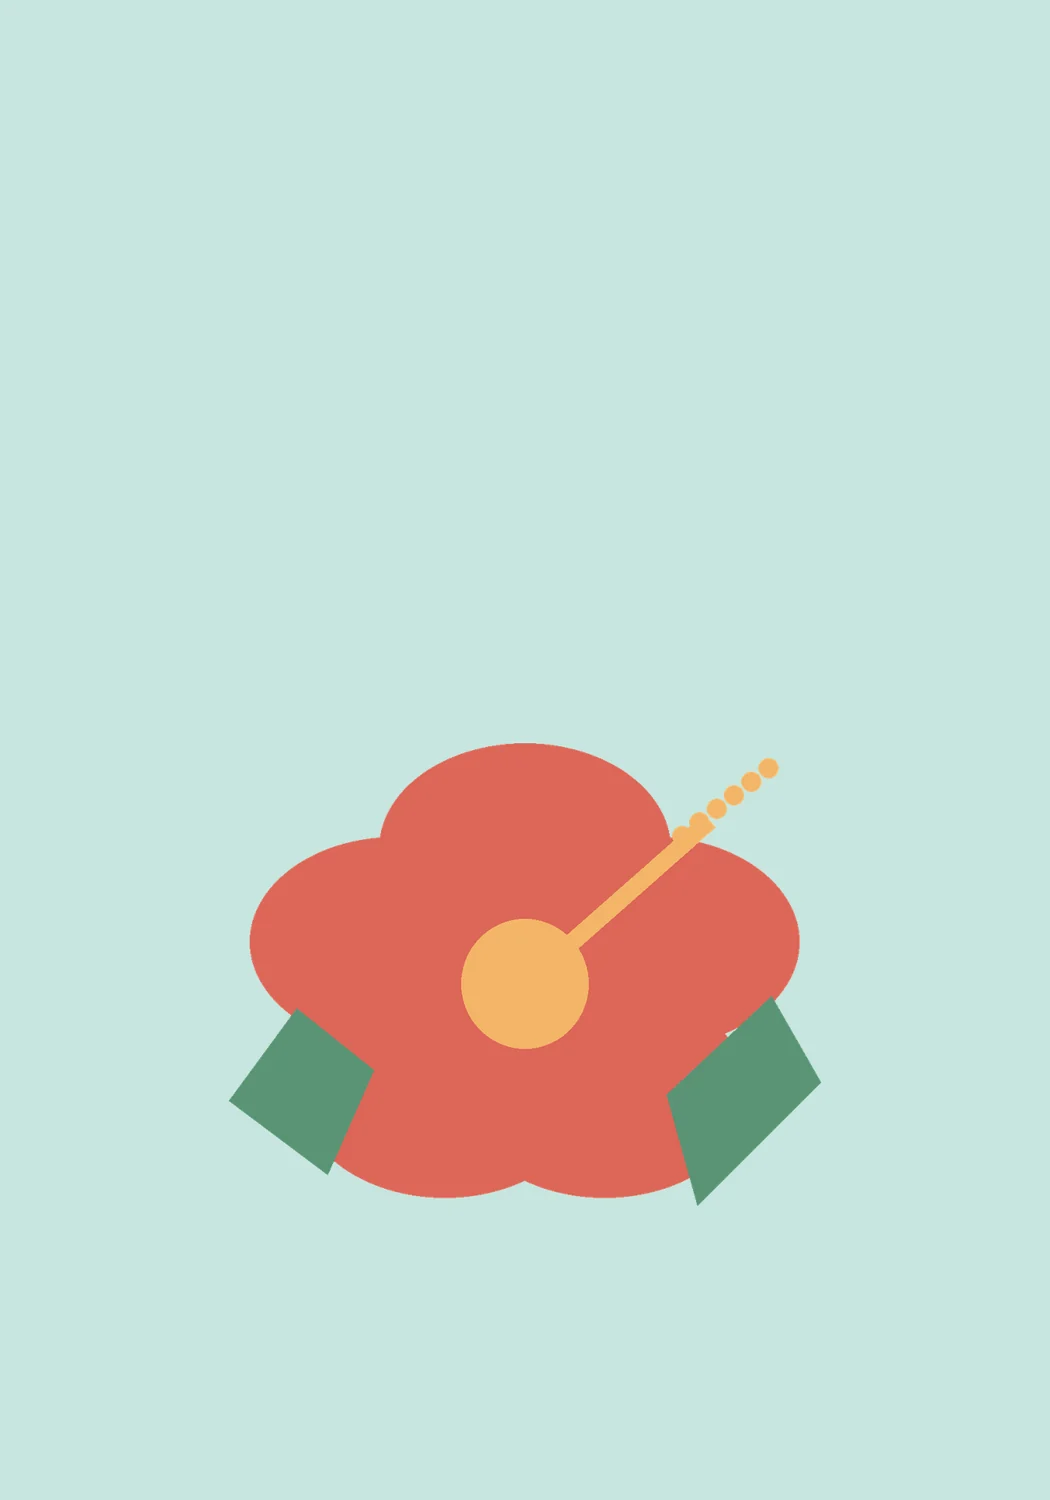
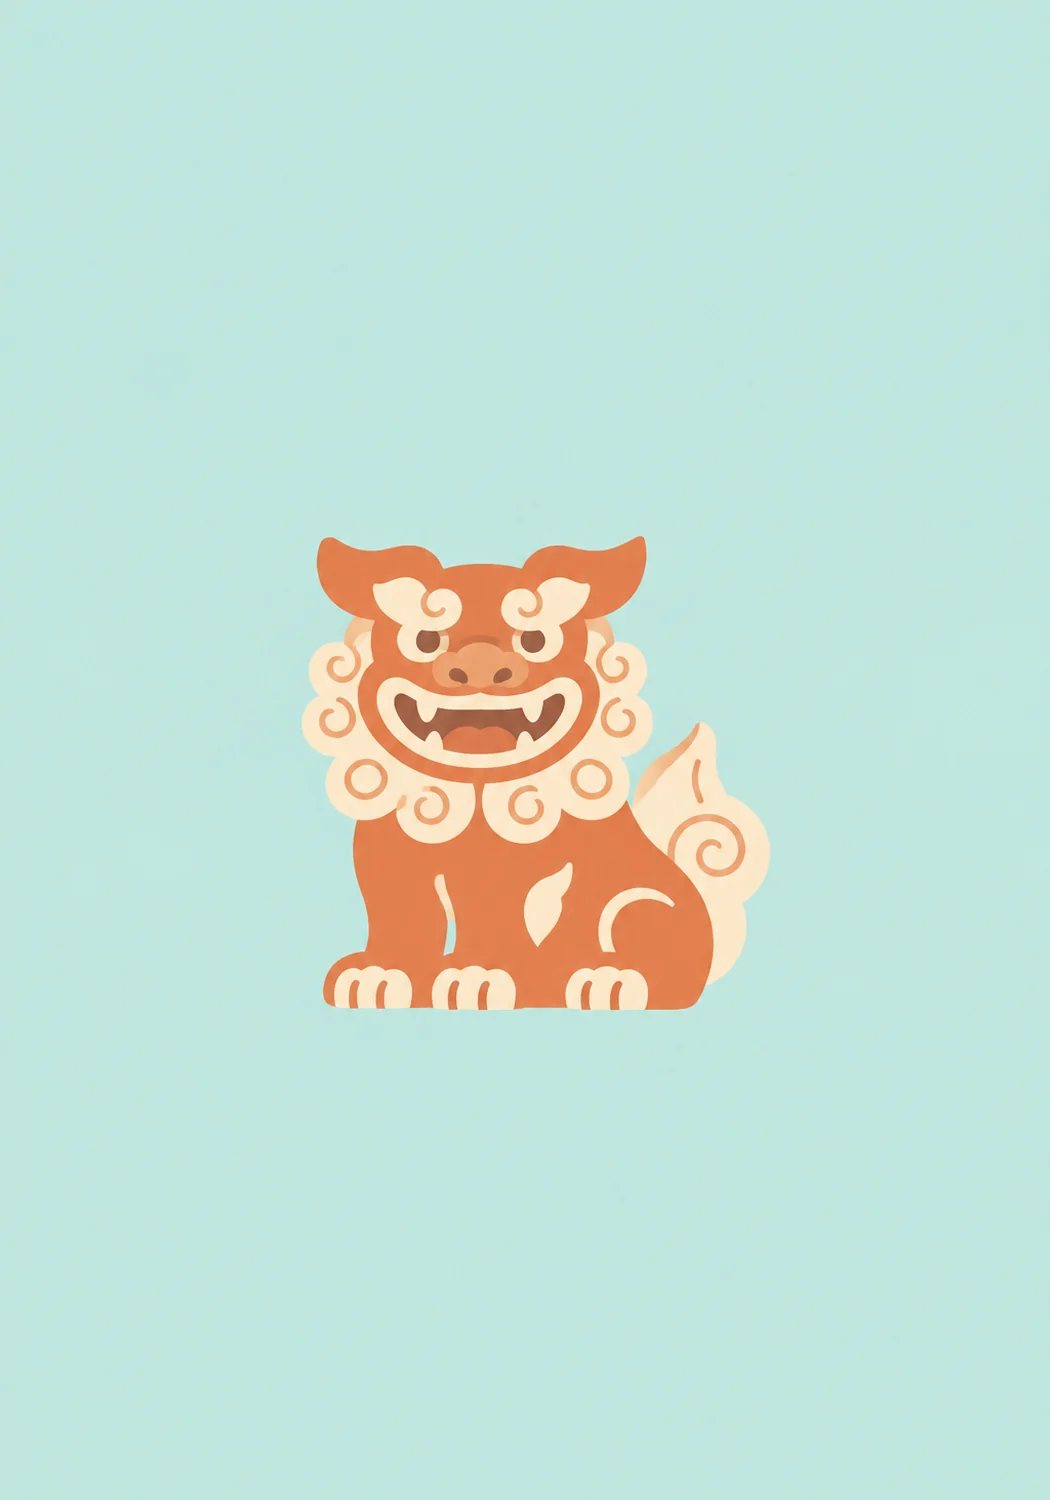
粉彩沖繩封面換新（風獅爺）
Claude-Session: https://claude.ai/code/session_01NfU4Y1XG581Dp9VMgqLd7E

Changed region(s): [[0.2133, 0.3373, 0.7924, 0.7973]]

diff --git a/index.html b/index.html
@@ -794,7 +794,7 @@ const ART={img:{},failed:new Set(),busy:{}};
 /* 粉彩插畫的底色：封面字用同色系深色，換主題色也不會出現藍底紅字 */
 /* 物件太低會壓到下方中文標題：往上移幾 px（頁面高 794），空出來的地方用底色補 */
 const ARTUP={'pastel-kyoto':110};
-const ARTBG={'pastel-kyoto':'#f6d0c6','pastel-osaka':'#fce4ab','pastel-tokyo':'#bcd8ee','pastel-hokkaido':'#ded1ec','pastel-okinawa':'#c7e6e0','pastel-nara':'#f3dcbf','pastel-fukuoka':'#cee5d6','pastel-japan':'#c5d9eb'};
+const ARTBG={'pastel-kyoto':'#f6d0c6','pastel-osaka':'#fce4ab','pastel-tokyo':'#bcd8ee','pastel-hokkaido':'#ded1ec','pastel-okinawa':'#bee5de','pastel-nara':'#f3dcbf','pastel-fukuoka':'#cee5d6','pastel-japan':'#c5d9eb'};
 /* 依行程猜城市：建立行程時選的熱門城市 → 都道府縣 → 標題文字；都沒有但在日本 → 日本通用 */
 function artCity(t){const ks=Object.keys(CVART_ZH).filter(k=>k!=='japan');
   for(const c of t.cities||[]){const k=ks.find(k=>CVART_ZH[k]===c);if(k)return k}
